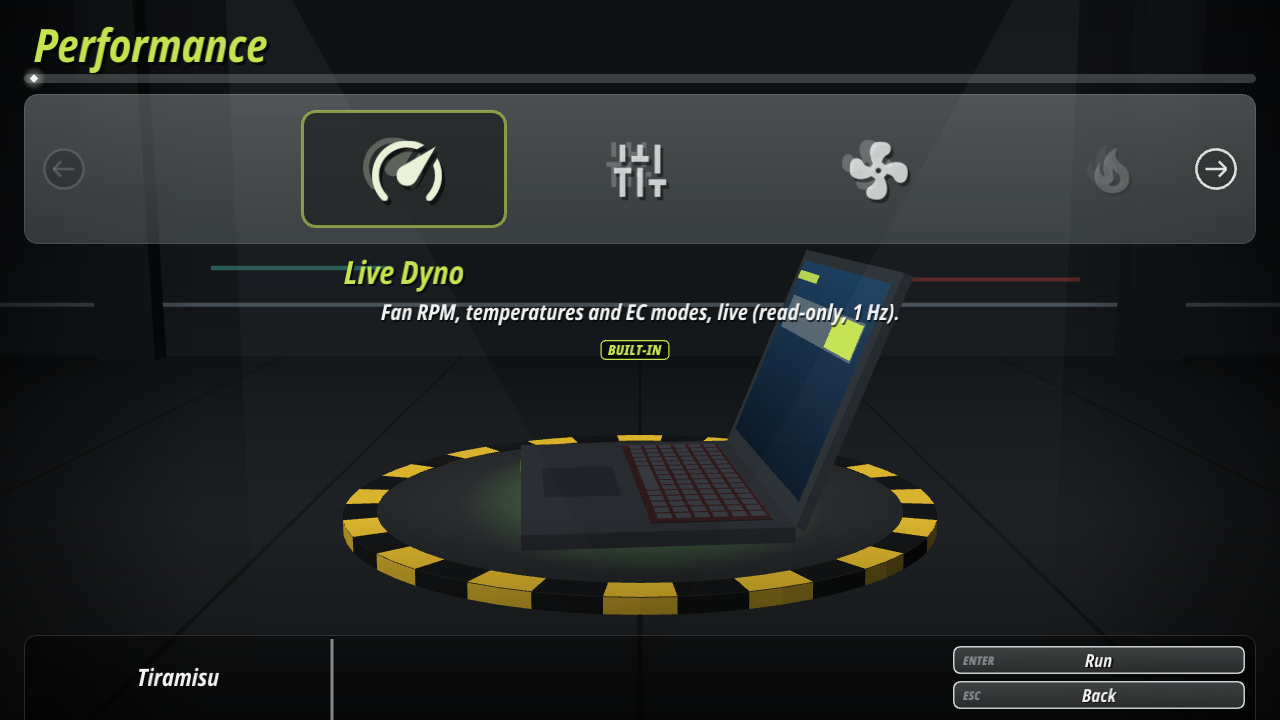
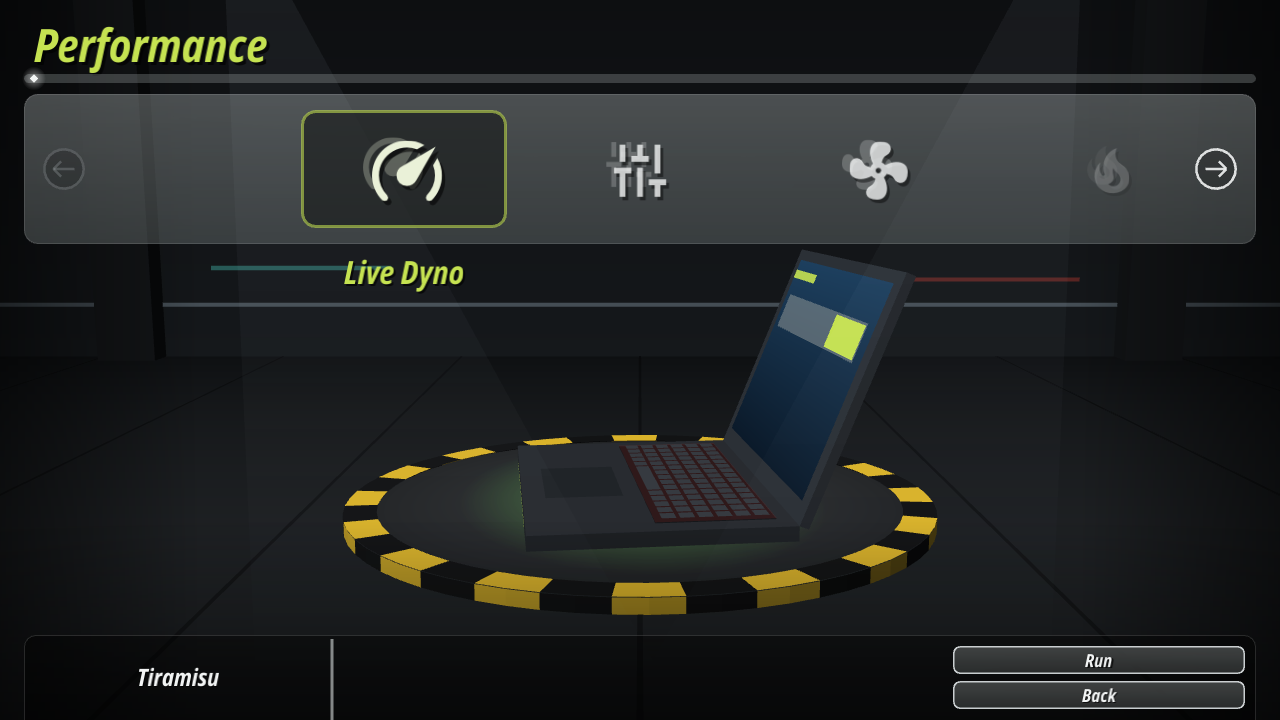
Options switches for command count, description, tags and hotkey hints
All four are off by default, for the uncluttered look of the game, and
can be turned on in Options. The Options list now scrolls smoothly to keep
the selected row in view (12 rows). Demo mode forces the four off, so the
refreshed README screenshots show the clean look.

diff --git a/src/main.rs b/src/main.rs
@@ -230,6 +230,8 @@ struct App {
     warm_k: f32,
     /// Options scrollbar marker, gliding between rows
     opt_dot: Spring,
+    /// first visible Options row (fractional while scrolling)
+    opt_top: Spring,
 }
 
 /// Scripted walk through every screen, saving a PNG at each stop.
@@ -358,7 +360,18 @@ impl Demo {
                 (10.6, OptDown),
                 (10.64, Shot("opt-dot-gliding")),
                 (11.2, Shot("opt-settled")),
-                (11.4, Quit),
+                (11.4, OptDown),
+                (11.5, OptDown),
+                (11.6, OptDown),
+                (11.7, OptDown),
+                (11.8, OptDown),
+                (11.9, OptDown),
+                (12.0, OptDown),
+                (12.1, OptDown),
+                (12.2, OptDown),
+                (12.26, Shot("opt-scrolling")),
+                (12.9, Shot("opt-scrolled-bottom")),
+                (13.1, Quit),
             ]
         } else {
             steps
@@ -367,7 +380,22 @@ impl Demo {
     }
 }
 
-const OPT_ROWS: [&str; 8] = ["UI Sounds", "Sound Volume", "Turntable", "Animations", "Fullscreen", "Default Phone", "Log Text Size", "Restore Defaults"];
+const OPT_ROWS: [&str; 12] = [
+    "UI Sounds",
+    "Sound Volume",
+    "Turntable",
+    "Animations",
+    "Fullscreen",
+    "Default Phone",
+    "Log Text Size",
+    "Command Count",
+    "Description",
+    "Tags",
+    "Hotkey Hints",
+    "Restore Defaults",
+];
+/// index of the last row, "Restore Defaults"
+const OPT_RESTORE: usize = OPT_ROWS.len() - 1;
 
 impl App {
     fn now(&self) -> f64 {
@@ -637,6 +665,20 @@ impl App {
                 sp.update(dt, 17.0 + 30.0 * (lag - 0.5).max(0.0));
             }
             st.dot.update(dt, 14.0);
+        }
+        // the Options list scrolls to keep the selected row in view
+        {
+            let h = self.ui.h - 100.0 - FOOTER_H - 14.0;
+            let visible = (((h - 22.0 - 44.0) / 52.0).floor() as usize).max(1);
+            let mut top = self.opt_top.target.round() as usize;
+            if self.opt_sel < top {
+                top = self.opt_sel;
+            } else if self.opt_sel >= top + visible {
+                top = self.opt_sel + 1 - visible;
+            }
+            top = top.min(OPT_ROWS.len().saturating_sub(visible));
+            self.opt_top.target = top as f32;
+            self.opt_top.update(dt, 20.0);
         }
         // the Options scrollbar marker glides between rows
         let rows = OPT_ROWS.len();
@@ -1131,12 +1173,12 @@ impl App {
                 if i != self.opt_sel {
                     self.opt_sel = i;
                     self.fx(Fx::Tick);
-                } else if i == 7 {
+                } else if i == OPT_RESTORE {
                     d = 1;
                 }
             }
         }
-        if (is_key_pressed(KeyCode::Enter) || is_key_pressed(KeyCode::KpEnter)) && self.opt_sel == 7 {
+        if (is_key_pressed(KeyCode::Enter) || is_key_pressed(KeyCode::KpEnter)) && self.opt_sel == OPT_RESTORE {
             d = 1;
         }
         if d != 0 {
@@ -1161,6 +1203,10 @@ impl App {
             }
             5 => o.phone = ((o.phone as i32 + d).rem_euclid(3)) as u8,
             6 => o.log_size = (o.log_size as i32 + d).clamp(12, 24) as u8,
+            7 => o.show_count = !o.show_count,
+            8 => o.show_desc = !o.show_desc,
+            9 => o.show_tags = !o.show_tags,
+            10 => o.show_hints = !o.show_hints,
             _ => {
                 self.dialog = Some(Dialog::Confirm { text: "Restore every option to its default?".into(), yes: false, action: DAction::ResetOptions, opened: self.ui.t });
                 self.fx(Fx::Accept);
@@ -1430,16 +1476,16 @@ impl App {
         let i = self.main_strip.sel;
         let tool = &self.tools[i];
         let y = STRIP_Y + STRIP_H + 76.0;
-        ui.text_sh(tool.blurb, ui.w * 0.5, y, 22.0, TXT, Align::Center);
-        let info = if !self.installed[i] {
-            format!("{} is not installed", tool.needs)
-        } else if tool.cmds.len() == 1 {
-            String::new()
-        } else {
-            format!("{} commands inside", tool.cmds.len())
-        };
-        if !info.is_empty() {
-            ui.text_sh(&info, ui.w * 0.5, y + 28.0, 17.0, if self.installed[i] { TXT_DIM } else { RED }, Align::Center);
+        let mut ly = y;
+        if self.opts.show_desc {
+            ui.text_sh(tool.blurb, ui.w * 0.5, ly, 22.0, TXT, Align::Center);
+            ly += 28.0;
+        }
+        // "not installed" always shows: it explains why Enter does nothing
+        if !self.installed[i] {
+            ui.text_sh(&format!("{} is not installed", tool.needs), ui.w * 0.5, ly, 17.0, RED, Align::Center);
+        } else if self.opts.show_count && tool.cmds.len() > 1 {
+            ui.text_sh(&format!("{} commands inside", tool.cmds.len()), ui.w * 0.5, ly, 17.0, TXT_DIM, Align::Center);
         }
     }
 
@@ -1467,9 +1513,12 @@ impl App {
         let ui = &self.ui;
         let cmd = &tool.cmds[self.tool_strips[ti].sel];
         let y = STRIP_Y + STRIP_H + 76.0;
-        let desc = ui.fit(cmd.desc, 22.0, ui.w - 120.0);
-        ui.text_sh(&desc, ui.w * 0.5, y, 22.0, TXT, Align::Center);
-        let tags = catalog::tags(cmd);
+        if self.opts.show_desc {
+            let desc = ui.fit(cmd.desc, 22.0, ui.w - 120.0);
+            ui.text_sh(&desc, ui.w * 0.5, y, 22.0, TXT, Align::Center);
+        }
+        let tags = if self.opts.show_tags { catalog::tags(cmd) } else { Vec::new() };
+        let y = if self.opts.show_desc { y } else { y - 30.0 };
         if !tags.is_empty() {
             let widths: f32 = tags.iter().map(|t| ui.measure_with(&ui.black, t, 14.0) + 26.0).sum();
             let mut x = ui.w * 0.5 - widths * 0.5;
@@ -1642,10 +1691,22 @@ impl App {
         let o = &self.opts;
         let row_h = 52.0;
         let vx = x + w * 0.58; // value column
+        // the list scrolls when it is taller than the panel
+        let list_top = y + 22.0;
+        let list_h = h - 22.0 - 44.0;
+        let visible = ((list_h / row_h).floor() as usize).max(1);
+        let top = self.opt_top.value;
         let mut rows = Vec::new();
         let (mut rp, mut rn) = (None, None);
         for (i, name) in OPT_ROWS.iter().enumerate() {
-            let ry = y + 22.0 + i as f32 * row_h;
+            let pos = i as f32 - top;
+            // rows fade out as they slide past the top or bottom edge
+            let fade = (pos + 0.9).clamp(0.0, 1.0) * (visible as f32 - pos + 0.1).clamp(0.0, 1.0);
+            if fade <= 0.02 {
+                continue;
+            }
+            let ui = &self.ui.faded(fade);
+            let ry = list_top + pos * row_h;
             let sel = i == self.opt_sel;
             let rr = Rect::new(x + 18.0, ry, w - 36.0 - 40.0, row_h - 6.0);
             if sel {
@@ -1668,6 +1729,10 @@ impl App {
                 2 => Some(if o.spin { "Spin" } else { "Still" }.into()),
                 3 => Some(if o.anim_full { "Full" } else { "Quick" }.into()),
                 4 => Some(if o.fullscreen { "On" } else { "Off" }.into()),
+                7 => Some(if o.show_count { "On" } else { "Off" }.into()),
+                8 => Some(if o.show_desc { "On" } else { "Off" }.into()),
+                9 => Some(if o.show_tags { "On" } else { "Off" }.into()),
+                10 => Some(if o.show_hints { "On" } else { "Off" }.into()),
                 5 => Some(Phone::from_index(o.phone).label().into()),
                 6 => {
                     slider((o.log_size - 12) as f32, 12.0);
@@ -1692,7 +1757,9 @@ impl App {
                 rp = Some(lp);
                 rn = Some(np);
             }
-            rows.push((rr, i));
+            if fade > 0.6 {
+                rows.push((rr, i));
+            }
         }
         // decorative scrollbar, like the original list screens
         let sbx = x + w - 28.0;
@@ -1876,7 +1943,8 @@ impl App {
             let y = y_top + row * (bh + gy);
             let r = Rect::new(x, y, bw, bh);
             let accent = b.act == FAct::TunerPill(4) && self.tuner.dirty();
-            ui.button(b.key, x, y, bw, bh, &b.label, b.hint, hit(&r, m) || accent);
+            let hint = if self.opts.show_hints { b.hint } else { "" };
+            ui.button(b.key, x, y, bw, bh, &b.label, hint, hit(&r, m) || accent);
             hits.push((r, b.key, b.act));
         }
         self.hits.footer = hits;
@@ -2092,10 +2160,16 @@ async fn main() {
         demo: std::env::var("GARAGE_DEMO").ok().map(Demo::new),
         warm_k: -1.0,
         opt_dot: Spring::new(0.0),
+        opt_top: Spring::new(0.0),
     };
     if let Some(d) = app.demo.as_ref() {
         let _ = std::fs::create_dir_all(&d.dir);
         app.opts.sound = false;
+        // GitHub screenshots: clean, like the game (all four switches off)
+        app.opts.show_count = false;
+        app.opts.show_desc = false;
+        app.opts.show_tags = false;
+        app.opts.show_hints = false;
     }
 
     loop {

diff --git a/src/options.rs b/src/options.rs
@@ -18,11 +18,19 @@ pub struct Options {
     /// adb serial of the vivo, for the phone picker over USB (optional:
     /// without it the picker matches any adb device whose model says vivo)
     pub vivo_serial: String,
+    /// "N commands inside" under a tool on the main menu
+    pub show_count: bool,
+    /// the description line under the selected item
+    pub show_desc: bool,
+    /// coloured tags (KONSOLE, APP, BUILT-IN, ASKS FIRST, PHONE PICKER)
+    pub show_tags: bool,
+    /// hotkey labels (ENTER, ESC, ...) inside the footer buttons
+    pub show_hints: bool,
 }
 
 impl Default for Options {
     fn default() -> Self {
-        Options { sound: true, volume: 6, spin: true, anim_full: true, fullscreen: false, phone: 0, log_size: 16, vivo_serial: String::new() }
+        Options { sound: true, volume: 6, spin: true, anim_full: true, fullscreen: false, phone: 0, log_size: 16, vivo_serial: String::new(), show_count: false, show_desc: false, show_tags: false, show_hints: false }
     }
 }
 
@@ -50,6 +58,10 @@ impl Options {
                 "fullscreen" => o.fullscreen = b,
                 "phone" => o.phone = n.unwrap_or(0).min(2),
                 "log_size" => o.log_size = n.unwrap_or(16).clamp(12, 24),
+                "show_count" => o.show_count = b,
+                "show_desc" => o.show_desc = b,
+                "show_tags" => o.show_tags = b,
+                "show_hints" => o.show_hints = b,
                 "vivo_serial" => o.vivo_serial = v.chars().filter(|c| c.is_ascii_alphanumeric() || ".:-_".contains(*c)).collect(),
                 _ => {}
             }
@@ -63,8 +75,8 @@ impl Options {
             let _ = std::fs::create_dir_all(dir);
         }
         let text = format!(
-            "# Tiramisu Garage options (written by the app)\nsound={}\nvolume={}\nspin={}\nanim_full={}\nfullscreen={}\nphone={}\nlog_size={}\nvivo_serial={}\n",
-            self.sound as u8, self.volume, self.spin as u8, self.anim_full as u8, self.fullscreen as u8, self.phone, self.log_size, self.vivo_serial
+            "# Tiramisu Garage options (written by the app)\nsound={}\nvolume={}\nspin={}\nanim_full={}\nfullscreen={}\nphone={}\nlog_size={}\nvivo_serial={}\nshow_count={}\nshow_desc={}\nshow_tags={}\nshow_hints={}\n",
+            self.sound as u8, self.volume, self.spin as u8, self.anim_full as u8, self.fullscreen as u8, self.phone, self.log_size, self.vivo_serial, self.show_count as u8, self.show_desc as u8, self.show_tags as u8, self.show_hints as u8
         );
         let _ = std::fs::write(p, text);
     }

diff --git a/README.md b/README.md
@@ -40,6 +40,10 @@ uses no game assets.
 - **Footer buttons** like the game's: long rounded bars in a two-row grid that
   fills from the right; they glide to lime over 250 ms on hover, click or hotkey.
   Arrow buttons pop on press and grey out when there is nothing left that way.
+- **Display switches** (Options, all off by default for the clean look of
+  the game): the "N commands inside" count, the description line, the
+  coloured tags (KONSOLE, APP, BUILT-IN, ASKS FIRST) and the hotkey hints
+  inside the footer buttons.
 - **Options:** the list panel with values: sounds, volume, turntable, animation
   speed, fullscreen, default phone, log text size.
 
